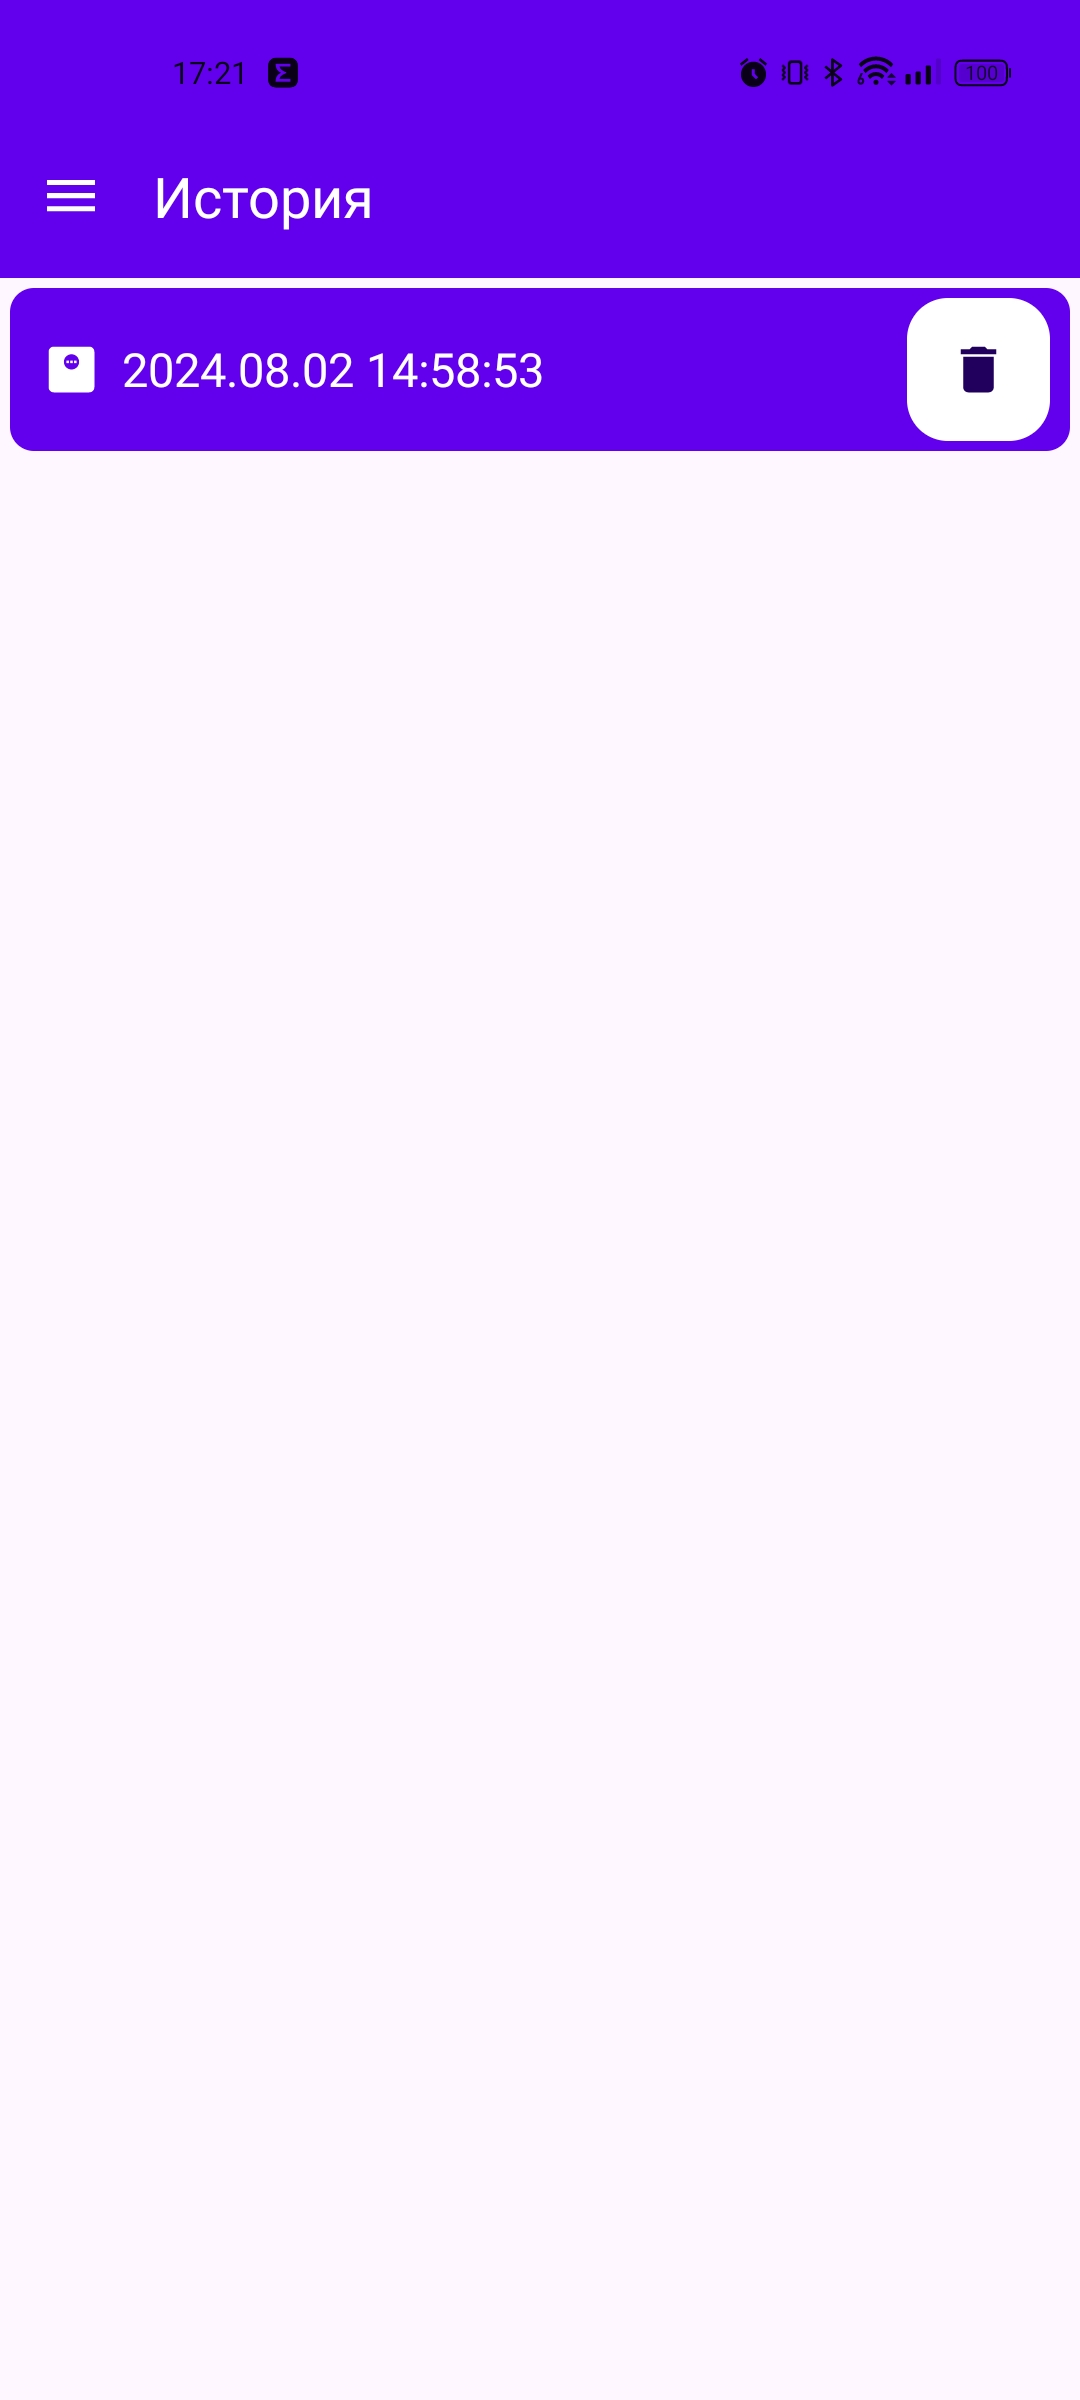
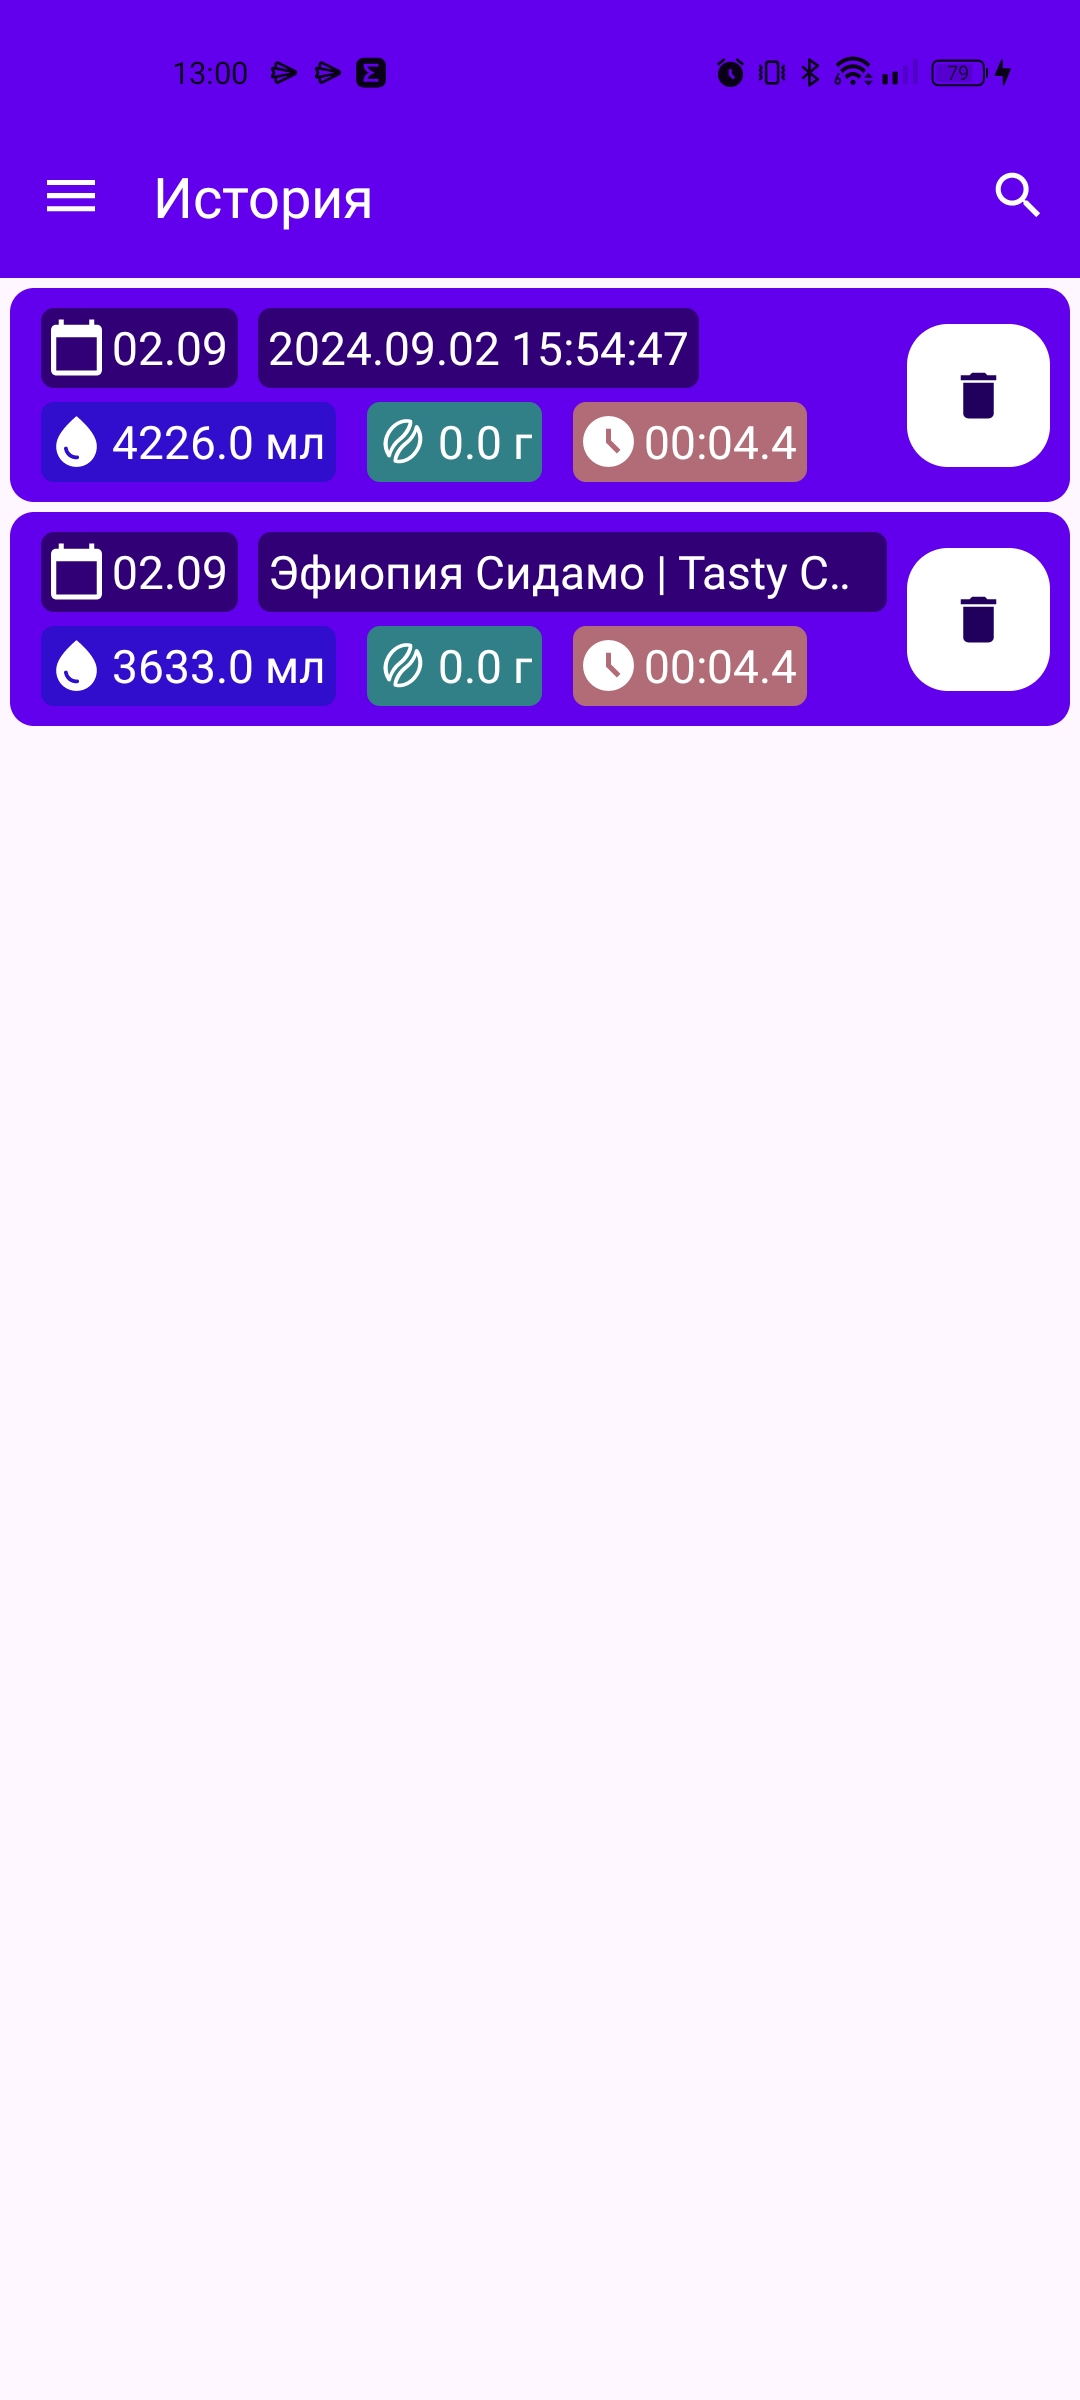
Добавил новые скриншоты для документации

diff --git a/README.md b/README.md
@@ -80,7 +80,13 @@
 <img src='docs/images/history_screen.jpg' width="33%" >
 </div>  
   
-Здесь хранится все сохранённые заваривания. Можно посмотреть, нажав на карточку или удалить запись, нажав на значок справа.
+Здесь хранится все сохранённые заваривания. Можно посмотреть, нажав на карточку или удалить запись, нажав на значок справа.  
+Также справа сверху есть поиск по истории. Ищет информацию в блоках:
+- Зерно;
+- Обжарщик;
+- Кофемолка;
+- Способ готовки;
+- Дополнительно.
 
 ### Информация
 
@@ -96,6 +102,7 @@
 На вкладке "Данные" отображаются основные параметры. Такжэе можно переключить Среднюю скорость на Скорость пролива и наоборот нажатием на Среднюю скорость.
 На вкладке "Дополнительно" можно ввести, сохранить или удалить информации о заваривании. Доступные пункты:
 - Зерно;
+- Обжарщик;
 - Кофемолка;
 - Настройка помола;
 - Способ готовки;
